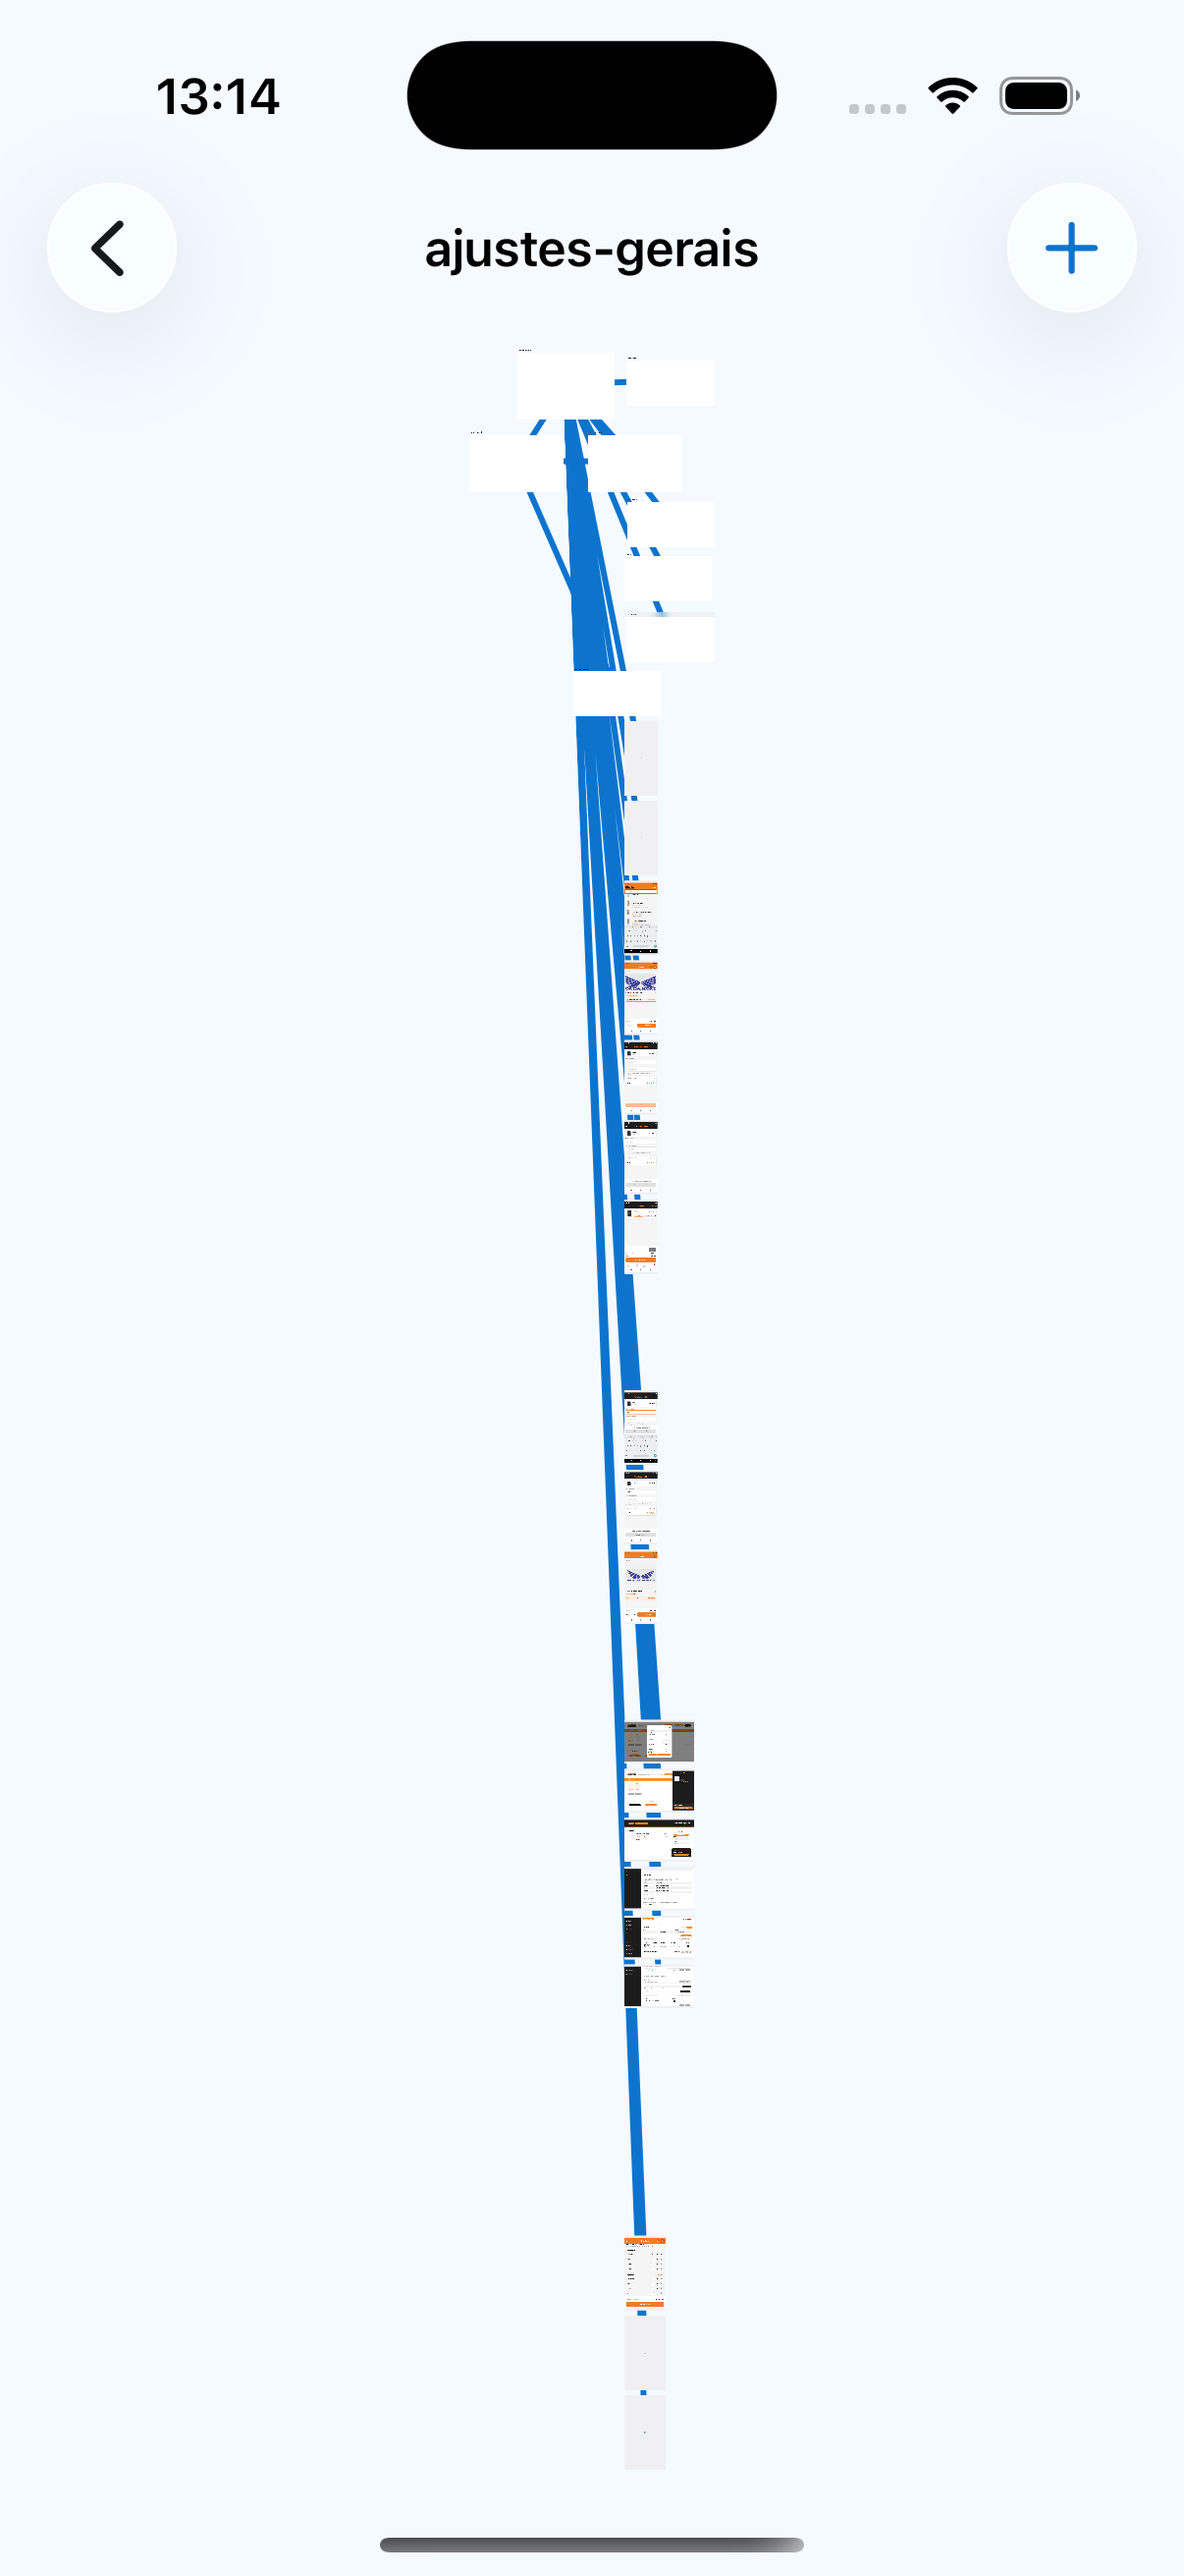
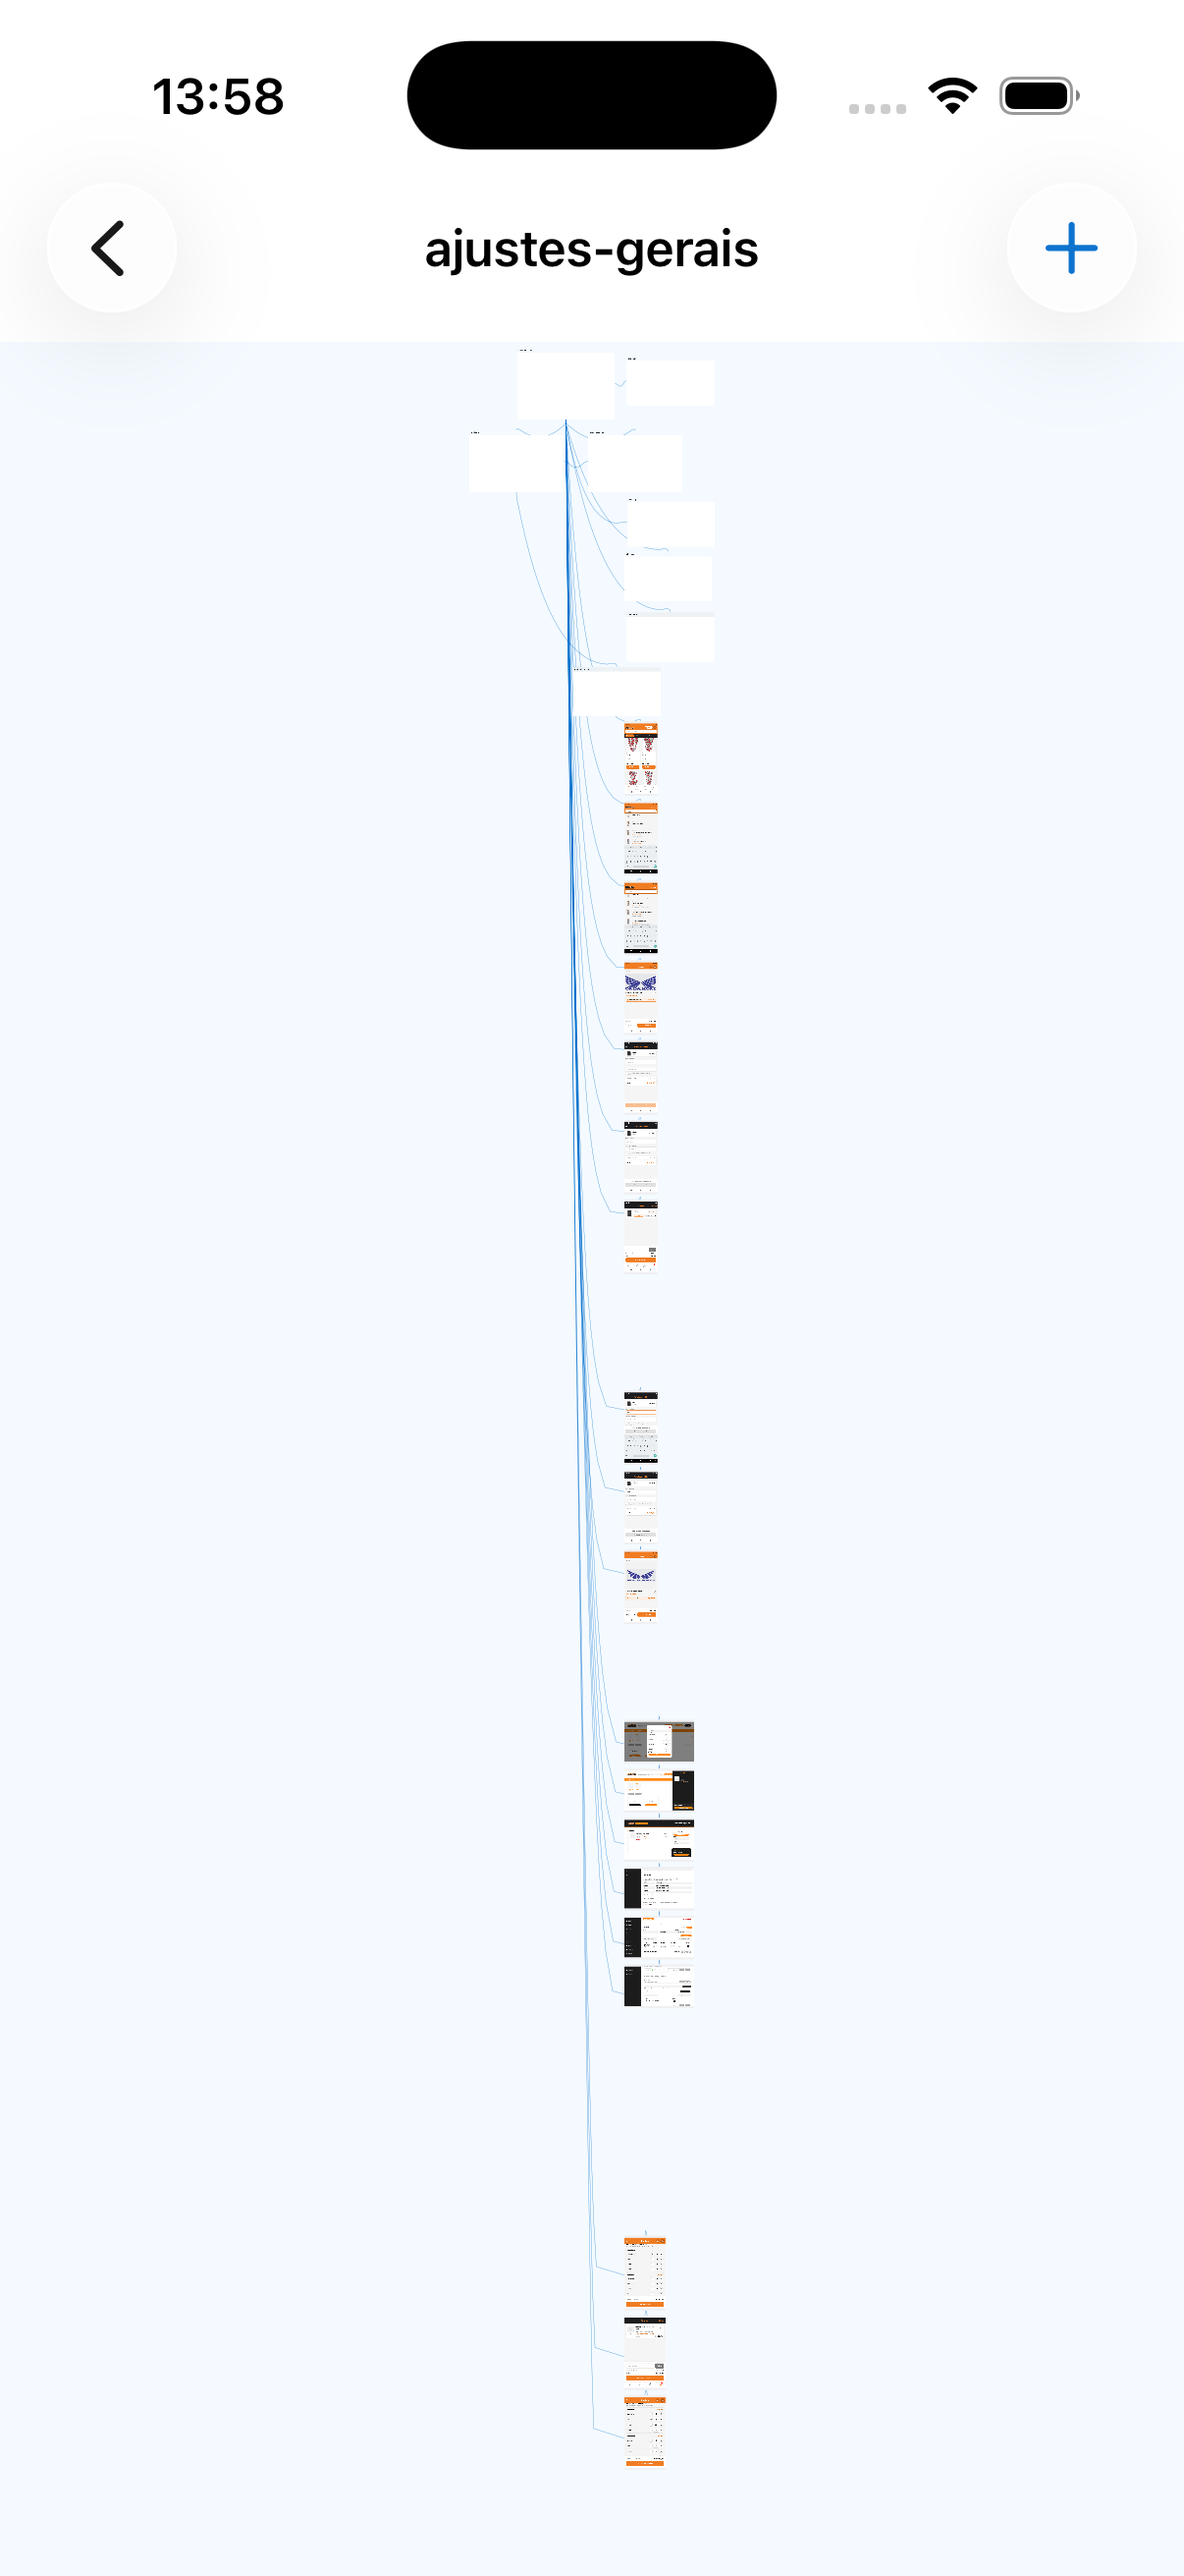
Phone terminals: start an agent the core doesn't run, as the Mac does; Start for a stopped one; offline snapshot-to-Metal test; zoom-scaled lines, board clipped under the top bar; DEBUG draw log

diff --git a/iOS/AgentBoardPhone/MetalTerminal.swift b/iOS/AgentBoardPhone/MetalTerminal.swift
@@ -102,6 +102,9 @@ final class MetalTerminalView: UIView {
     }
 
     private func draw() {
+        #if DEBUG
+        DebugTerm.log("try session=\(session != nil) window=\(window != nil) bounds=\(bounds.size) presenter=\(Self.presenter != nil) mid=\(session?.isMidUpdate ?? false) live=\(live)")
+        #endif
         guard let presenter = Self.presenter, let session, window != nil, bounds.width > 0, bounds.height > 0,
               let glyphs = glyphs(), !session.isMidUpdate else { return }
         let state = layerState ?? TerminalLayer(device: presenter.device)
@@ -109,10 +112,8 @@ final class MetalTerminalView: UIView {
         presenter.beginFrame()
         session.withTerminalForDisplay { _ = state.update(from: $0, theme: theme, glyphs: glyphs) }
         #if DEBUG
-        if showsCursor, let url = FileManager.default.urls(for: .documentDirectory, in: .userDomainMask).first?.appendingPathComponent("term.txt") {
-            let text = session.withTerminal { "\($0.cols)x\($0.rows) state=\(session.state)\n" + $0.screenText().joined(separator: "\n") }
-            try? text.write(to: url, atomically: true, encoding: .utf8)
-        }
+        let lines = session.withTerminal { $0.screenText() }
+        DebugTerm.log("draw \(ObjectIdentifier(session).hashValue) \(state.cols)x\(state.rows) \(session.state) filled=\(lines.filter { !$0.isEmpty }.count) bounds=\(bounds.size) first=\(lines.first { !$0.isEmpty }?.prefix(40) ?? "")")
         #endif
         let pixels = CGSize(width: state.cols * glyphs.cellWidth, height: state.rows * glyphs.cellHeight)
         guard pixels.width > 0, pixels.height > 0 else { return }
@@ -147,3 +148,17 @@ final class MetalTerminalView: UIView {
 extension Theme {
     static let surfaceUI = UIColor(surface)
 }
+
+#if DEBUG
+/// Appends to Documents/term.txt, which `simctl get_app_container … data` reaches.
+enum DebugTerm {
+    static func log(_ line: String) {
+        guard let url = FileManager.default.urls(for: .documentDirectory, in: .userDomainMask).first?.appendingPathComponent("term.txt") else { return }
+        if !FileManager.default.fileExists(atPath: url.path) { FileManager.default.createFile(atPath: url.path, contents: nil) }
+        guard let handle = try? FileHandle(forWritingTo: url) else { return }
+        handle.seekToEndOfFile()
+        handle.write(Data((line + "\n").utf8))
+        try? handle.close()
+    }
+}
+#endif

diff --git a/iOS/AgentBoardPhoneTests/ChannelTests.swift b/iOS/AgentBoardPhoneTests/ChannelTests.swift
@@ -1,3 +1,6 @@
+import UIKit
+import TerminalRenderer
+import Metal
 import CryptoKit
 import Foundation
 import Network
@@ -66,6 +69,31 @@ final class ChannelTests: XCTestCase {
             XCTAssertTrue(terminal.restore(bytes), name)
             XCTAssertEqual(terminal.snapshot(), bytes, name)
         }
+    }
+
+    /// What the card draws: a mirrored session fed the core's snapshot, then output, through
+    /// the same calls `CoreClient` makes, rendered by the same Metal layer the card uses.
+    @MainActor func testMirroredSessionShowsSnapshotAndOutput() throws {
+        let bytes = try [UInt8](Data(contentsOf: Self.repo.appendingPathComponent("core/fixtures/terminal/agent_fullscreen.snapshot")))
+        let expected = Terminal(cols: 10, rows: 5)
+        XCTAssertTrue(expected.restore(bytes))
+        XCTAssertFalse(expected.screenText().allSatisfy(\.isEmpty))
+        let session = AgentSession(cols: 80, rows: 24)
+        session.isObserved = true
+        var changes = 0
+        session.onChange = { changes += 1 }
+        session.coreSnapshot(bytes)
+        XCTAssertEqual(session.withTerminal { $0.screenText() }, expected.screenText())
+        Array("\r\nphone-ok".utf8).withUnsafeBytes { session.coreReceived($0) }
+        XCTAssertTrue(session.withTerminal { $0.screenText() }.contains { $0.contains("phone-ok") })
+        RunLoop.main.run(until: Date().addingTimeInterval(0.1))
+        XCTAssertGreaterThan(changes, 0, "the card is told to redraw")
+        let device = try XCTUnwrap(MTLCreateSystemDefaultDevice())
+        let glyphs = try XCTUnwrap(GlyphCache(device: device, font: UIFont.monospacedSystemFont(ofSize: 36, weight: .regular) as CTFont), "the glyph atlas the card uses at 3x")
+        let layer = TerminalLayer(device: device)
+        session.withTerminalForDisplay { _ = layer.update(from: $0, theme: .light, glyphs: glyphs) }
+        XCTAssertEqual(layer.cols, expected.cols)
+        XCTAssertEqual(layer.rows, expected.rows)
     }
 
     static let repo = URL(fileURLWithPath: #filePath).deletingLastPathComponent().deletingLastPathComponent().deletingLastPathComponent()

diff --git a/iOS/AgentBoardPhone/TerminalScreen.swift b/iOS/AgentBoardPhone/TerminalScreen.swift
@@ -39,6 +39,7 @@ struct TerminalPage: View {
     @State private var control = false
     @State private var prompt = ""
     @State private var typing = false
+    @State private var stopped = false
 
     var body: some View {
         VStack(spacing: 0) {
@@ -56,11 +57,32 @@ struct TerminalPage: View {
         }
         .background(Theme.canvas)
         .navigationTitle(card.name)
+        .toolbar {
+            if stopped {
+                ToolbarItem(placement: .topBarTrailing) {
+                    Button("Start") { link.send(BoardSay.restart(card.id)) }
+                        .accessibilityHint("Runs the agent's program again.")
+                }
+            }
+        }
+        // The session's state isn't observable; a glance each second is enough for one button.
+        .task {
+            while !Task.isCancelled {
+                let now = link.session(card.id).state == .stopped
+                if now != stopped { withAnimation(.smooth) { stopped = now } }
+                try? await Task.sleep(nanoseconds: 1_000_000_000)
+            }
+        }
         #if DEBUG
-        // `-typeText <text>`: typed into the terminal once it showed, then Enter.
+        // `-typeText <text>`: typed into the terminal once it showed (started first if stopped), then Enter.
         .task {
             guard let text = DebugLaunch.value("typeText") else { return }
             try? await Task.sleep(nanoseconds: 3_000_000_000)
+            // A stopped agent is started first, as tapping Start would.
+            if link.session(card.id).state == .stopped {
+                link.send(BoardSay.restart(card.id))
+                try? await Task.sleep(nanoseconds: 15_000_000_000)
+            }
             link.type(Array(text.utf8) + encode(.enter), to: card.id)
         }
         #endif

diff --git a/iOS/AgentBoardPhone/HostLink.swift b/iOS/AgentBoardPhone/HostLink.swift
@@ -30,6 +30,8 @@ import UIKit
     private var rawCards: [UUID: [String: Any]] = [:]
     /// The cards' sessions, mirroring the core's as the Mac's do (`AgentSession.host(on:id:)`).
     @ObservationIgnored private var sessions: [UUID: AgentSession] = [:]
+    /// Agents this link already asked the core to start.
+    @ObservationIgnored private var started: Set<UUID> = []
     @ObservationIgnored private var client: CoreClient?
     private var account: Account?
     private var fetching: Set<String> = []
@@ -220,8 +222,15 @@ import UIKit
     /// The size only matters for a session the core doesn't have yet; one it has keeps its own.
     private func attach(_ id: UUID, _ session: AgentSession, on client: CoreClient) {
         session.host(on: client, id: id)
+        #if DEBUG
+        DebugTerm.log("attach \(id) session=\(ObjectIdentifier(session).hashValue) known=\(cards.contains { $0.id == id })")
+        #endif
         let card = cards.first { $0.id == id }
-        send(BoardSay.open(id, cols: Int((card?.frame.width ?? 640) / 8), rows: Int((card?.frame.height ?? 400) / 17)))
+        // As the Mac's board: an agent the core isn't running starts the first time it shows;
+        // runners stay as they are (starting one is the developer's call).
+        let start = card?.runner == nil && !started.contains(id)
+        started.insert(id)
+        send(BoardSay.open(id, cols: Int((card?.frame.width ?? 640) / 8), rows: Int((card?.frame.height ?? 400) / 17), start: start))
         session.attach()
     }
 

diff --git a/iOS/AgentBoardPhone/CanvasView.swift b/iOS/AgentBoardPhone/CanvasView.swift
@@ -71,7 +71,7 @@ struct CanvasView: View {
                             points.dropFirst().forEach { path.addLine(to: $0) }
                         }
                     }
-                    .stroke(Theme.accent, lineWidth: 2 / scale)
+                    .stroke(Theme.accent, lineWidth: 2)  // board points: thickens with zoom, as on the Mac
                     ForEach(notes) { note in
                         let rect = place(note.frame)
                         PostItView(note: note, scale: 1).frame(width: rect.width, height: rect.height).offset(x: rect.minX, y: rect.minY)
@@ -99,6 +99,7 @@ struct CanvasView: View {
                 .scaleEffect(scale, anchor: .topLeading)
                 .offset(x: board.minX * scale - origin.x, y: board.minY * scale - origin.y)
             }
+            .clipped()  // nothing of the board under the top bar
             .contentShape(Rectangle())
             .gesture(DragGesture()
                 .onChanged { value in
@@ -123,6 +124,7 @@ struct CanvasView: View {
             }
         }
         .navigationTitle(worktree.title)
+        .toolbarBackground(.visible, for: .navigationBar)
         .navigationBarTitleDisplayMode(.inline)
         .navigationDestination(item: $opened) { card in TerminalPage(link: link, card: card) }
         #if DEBUG

diff --git a/iOS/AgentBoardPhone/BoardWire.swift b/iOS/AgentBoardPhone/BoardWire.swift
@@ -121,6 +121,11 @@ enum BoardSay {
     static func dismissAttention(_ id: UUID) -> Data { json(["dismissAttention": ["_0": id.uuidString]]) }
 
     /// `answer`: "ok", "useRecommended", or a variant's letter.
+    /// Starts a stopped agent again, or restarts a runner, as the Mac's restart does.
+    static func restart(_ id: UUID) -> Data {
+        json(["restart": ["id": id.uuidString]])
+    }
+
     static func answerDecision(_ id: UUID, _ answer: String) -> Data {
         let value: Any = ["ok", "useRecommended"].contains(answer) ? [answer: [String: Any]()] : ["option": ["_0": answer]]
         return json(["answerDecision": ["id": id.uuidString, "answer": value]])

diff --git a/iOS/AgentBoardPhoneTests/WireTests.swift b/iOS/AgentBoardPhoneTests/WireTests.swift
@@ -79,4 +79,10 @@ final class WireTests: XCTestCase {
         XCTAssertEqual(print.split(separator: " ").count, 5)
         XCTAssertTrue(print.split(separator: " ").allSatisfy { $0.count == 4 })
     }
+
+    func testRestartAsSwiftEncodesIt() throws {
+        let id = UUID()
+        let object = try JSONSerialization.jsonObject(with: BoardSay.restart(id)) as? [String: [String: String]]
+        XCTAssertEqual(object, ["restart": ["id": id.uuidString]])
+    }
 }
